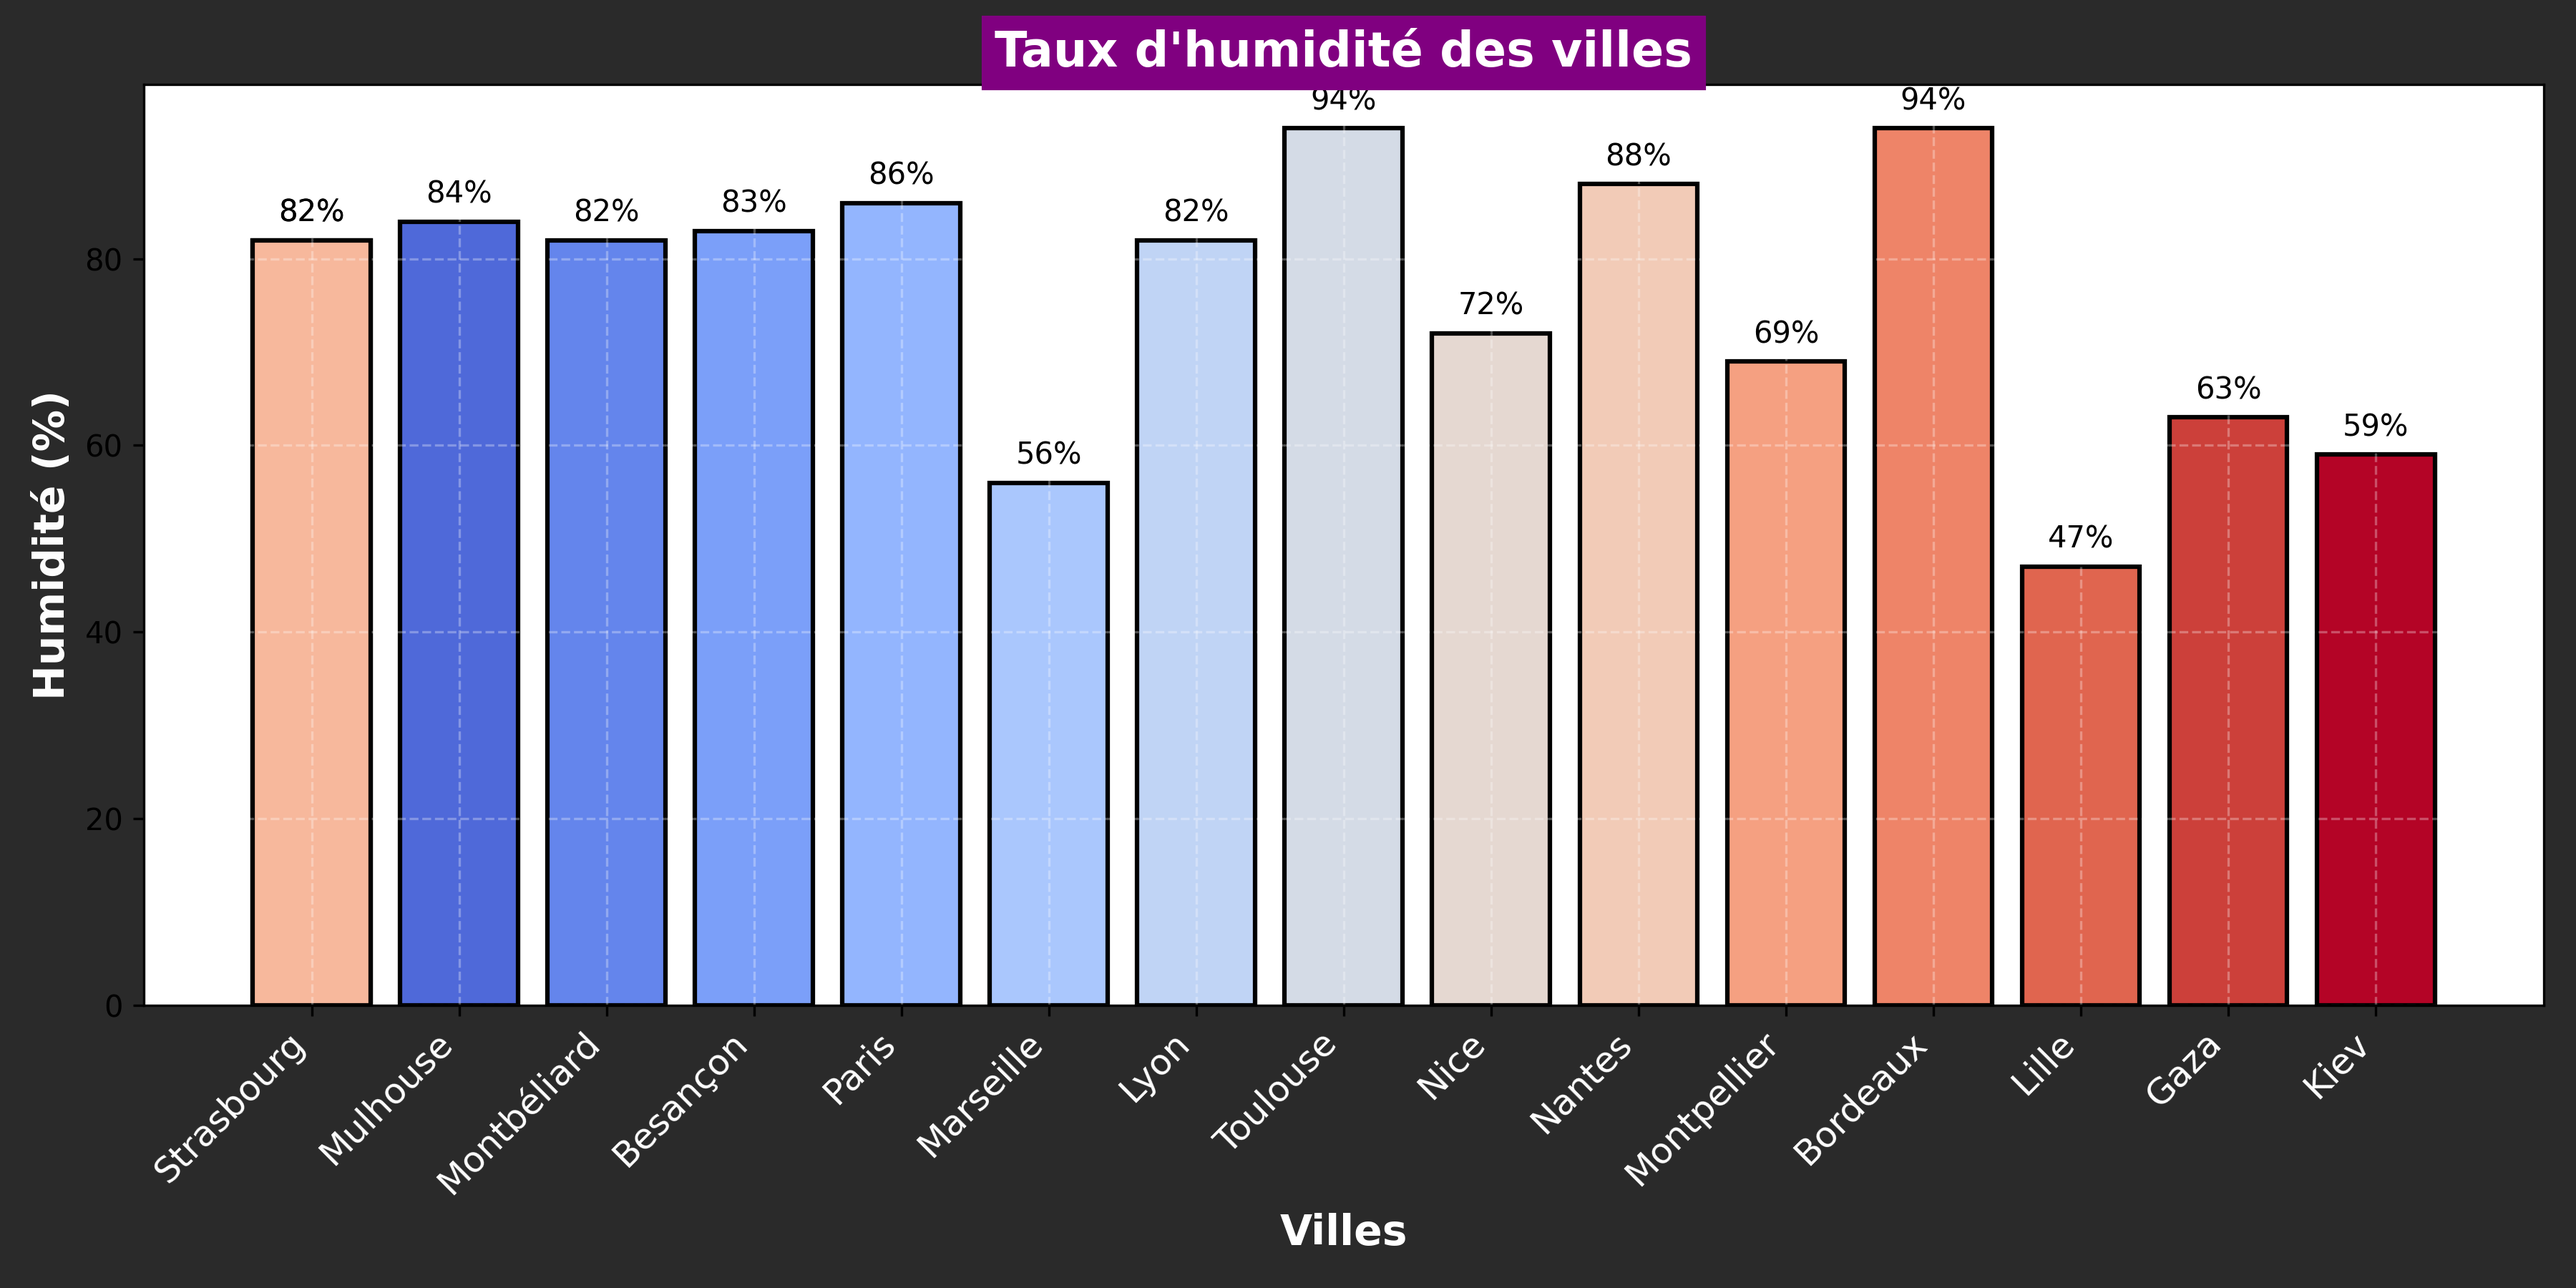
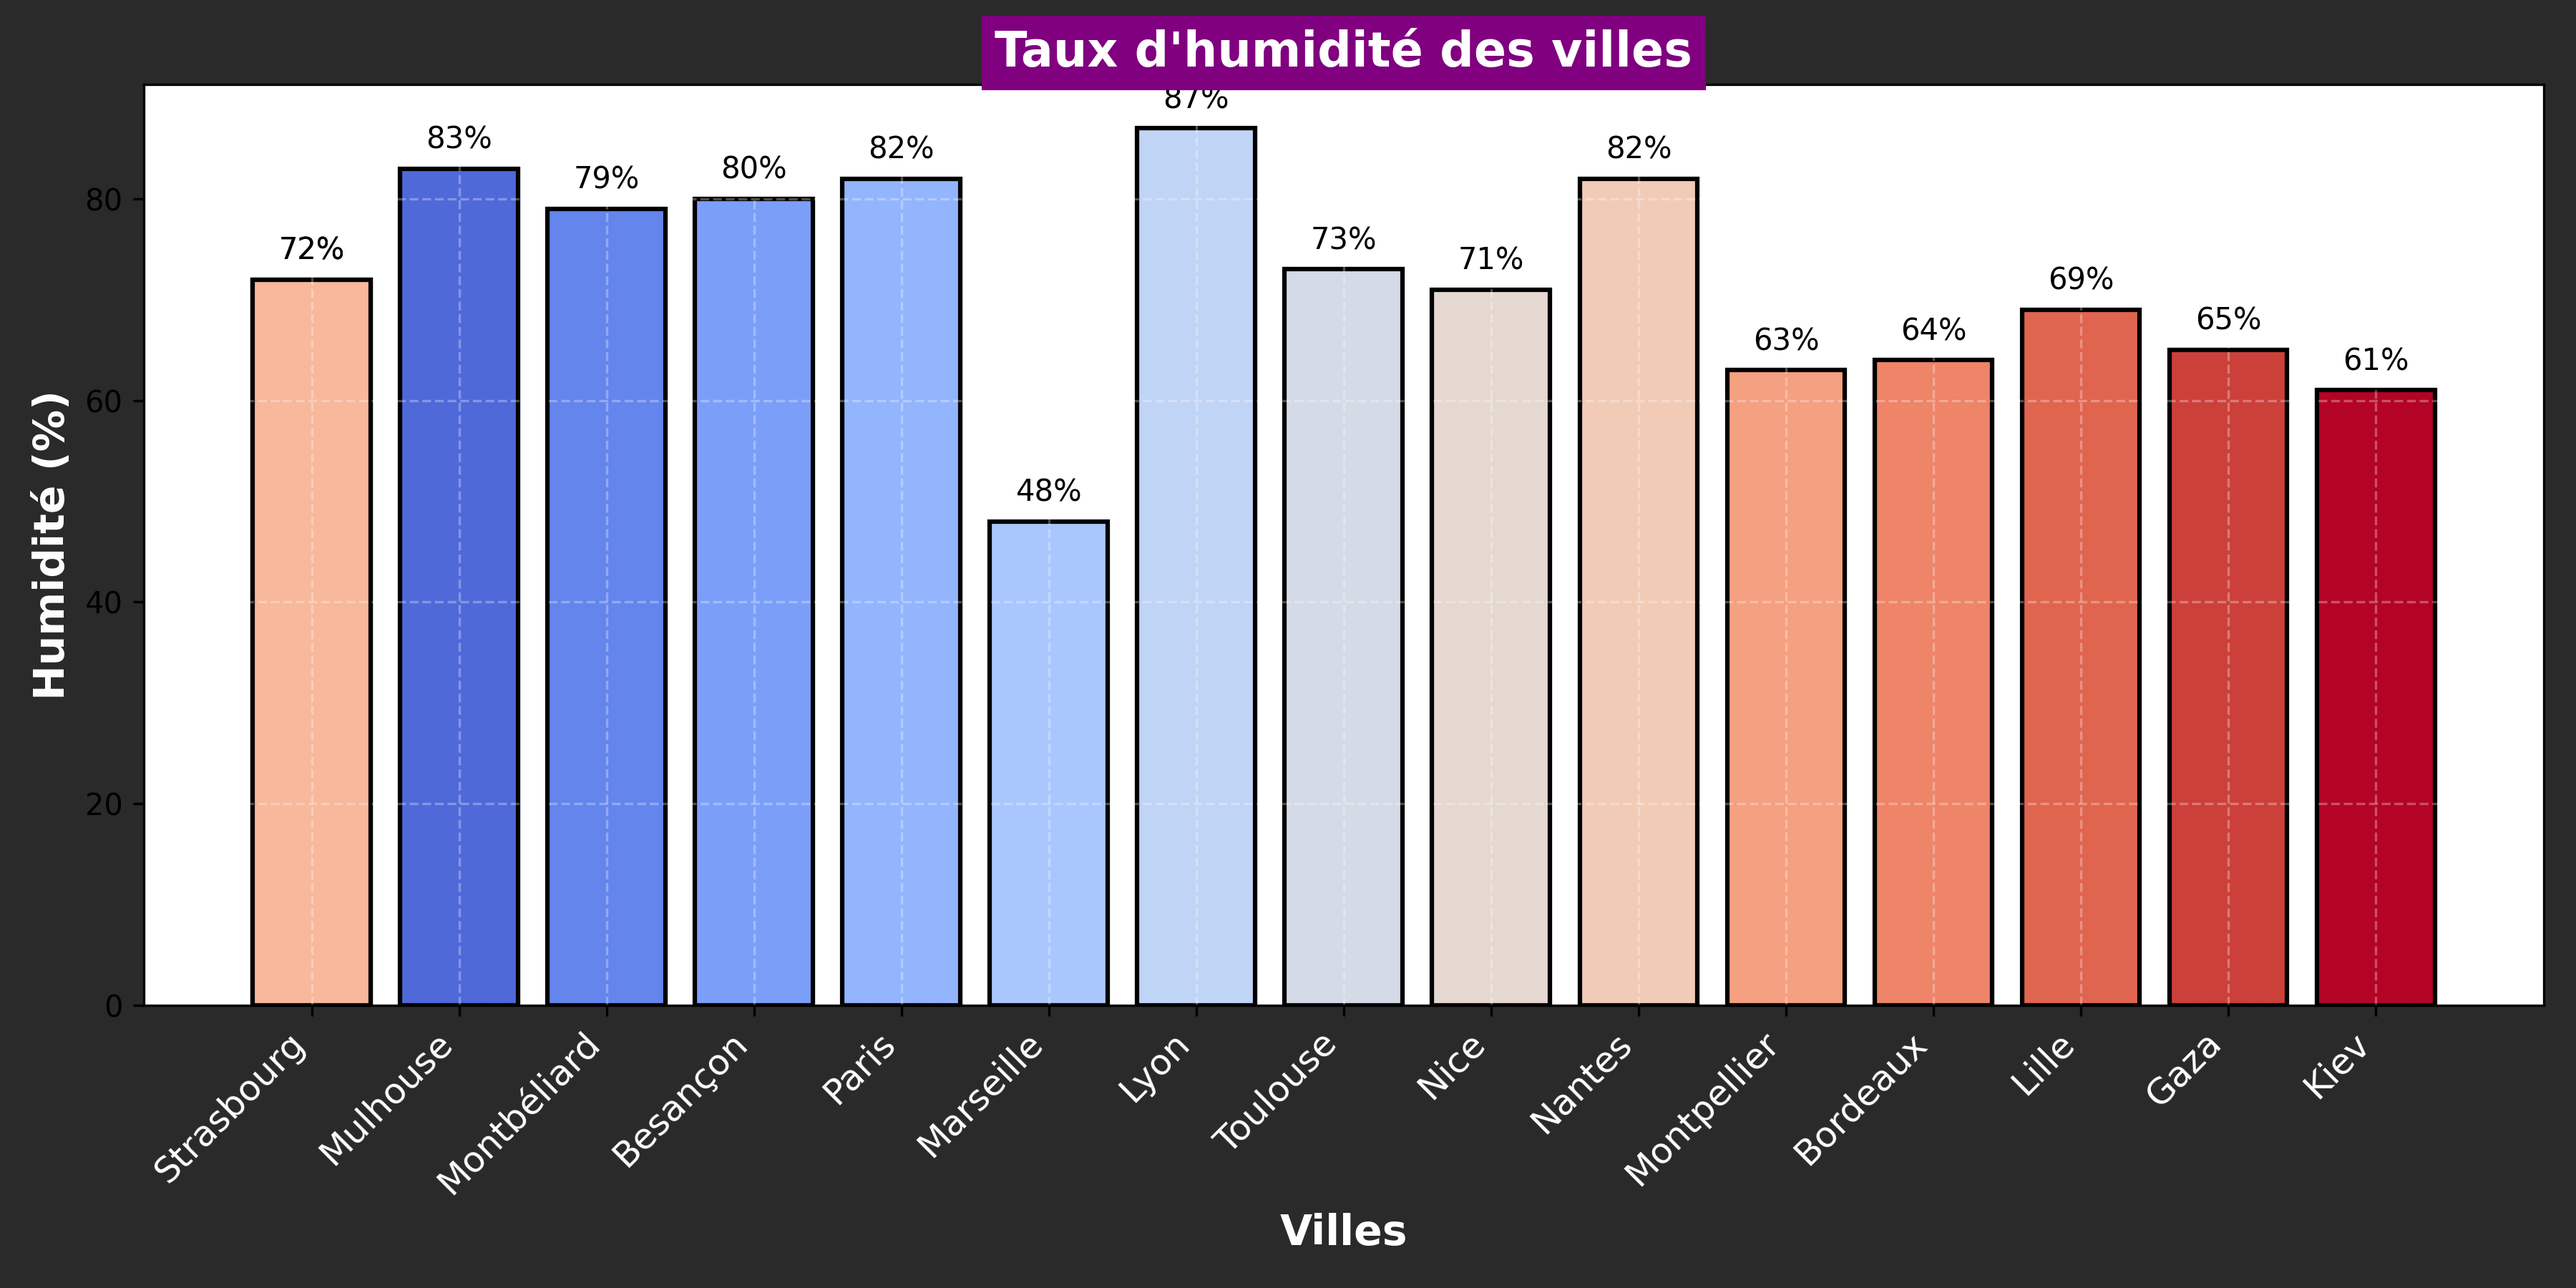
Mise à jour de la météo et ajout du graphique d'humidité

diff --git a/README.md b/README.md
@@ -24,103 +24,103 @@ Ce repo contient plusieurs workflows GitHub Actions :
 ## Météo actuelle :
 ## Météo des grandes villes + Gaza et Kiev 🌍
 
-🕒 Mise à jour : 10/06/2025 08:18:18
+🕒 Mise à jour : 11/06/2025 08:18:33
 
 ### 🌍 Strasbourg ☀
 **Conditions :** ciel dégagé
-**Température :** 14°C
-**Humidité :** 82%
-**Vent :** 2.06 m/s
+**Température :** 17.94°C
+**Humidité :** 72%
+**Vent :** 4.12 m/s
 
 ### 🌍 Mulhouse ☀
 **Conditions :** ciel dégagé
-**Température :** 13.08°C
-**Humidité :** 84%
-**Vent :** 2.06 m/s
-
-### 🌍 Montbéliard ☀
-**Conditions :** ciel dégagé
-**Température :** 15.54°C
-**Humidité :** 82%
-**Vent :** 0.95 m/s
-
-### 🌍 Besançon ☀
-**Conditions :** ciel dégagé
-**Température :** 13.83°C
+**Température :** 15.62°C
 **Humidité :** 83%
-**Vent :** 0.81 m/s
+**Vent :** 1.03 m/s
 
-### 🌍 Paris ☀
-**Conditions :** ciel dégagé
-**Température :** 14.57°C
-**Humidité :** 86%
-**Vent :** 2.06 m/s
+### 🌍 Montbéliard 🌥
+**Conditions :** nuageux
+**Température :** 18.32°C
+**Humidité :** 79%
+**Vent :** 3.75 m/s
+
+### 🌍 Besançon 🌥
+**Conditions :** nuageux
+**Température :** 16.89°C
+**Humidité :** 80%
+**Vent :** 2.1 m/s
+
+### 🌍 Paris 🌥
+**Conditions :** peu nuageux
+**Température :** 16.76°C
+**Humidité :** 82%
+**Vent :** 3.6 m/s
 
 ### 🌍 Marseille ☀
 **Conditions :** ciel dégagé
-**Température :** 18.62°C
-**Humidité :** 56%
-**Vent :** 0.7 m/s
+**Température :** 20.84°C
+**Humidité :** 48%
+**Vent :** 1.54 m/s
 
-### 🌍 Lyon ☀
-**Conditions :** ciel dégagé
-**Température :** 12.21°C
-**Humidité :** 82%
-**Vent :** 0.3 m/s
+### 🌍 Lyon 🌥
+**Conditions :** nuageux
+**Température :** 14.79°C
+**Humidité :** 87%
+**Vent :** 0.57 m/s
 
 ### 🌍 Toulouse 🌥
 **Conditions :** peu nuageux
-**Température :** 14.99°C
-**Humidité :** 94%
+**Température :** 21.99°C
+**Humidité :** 73%
 **Vent :** 1.54 m/s
 
 ### 🌍 Nice 🌥
-**Conditions :** peu nuageux
-**Température :** 18.05°C
-**Humidité :** 72%
-**Vent :** 0.14 m/s
+**Conditions :** partiellement nuageux
+**Température :** 16.39°C
+**Humidité :** 71%
+**Vent :** 0.64 m/s
 
 ### 🌍 Nantes ☀
 **Conditions :** ciel dégagé
-**Température :** 12.96°C
-**Humidité :** 88%
-**Vent :** 1.03 m/s
+**Température :** 16.96°C
+**Humidité :** 82%
+**Vent :** 3.6 m/s
 
 ### 🌍 Strasbourg ☀
 **Conditions :** ciel dégagé
-**Température :** 14°C
-**Humidité :** 82%
-**Vent :** 2.06 m/s
+**Température :** 17.94°C
+**Humidité :** 72%
+**Vent :** 4.12 m/s
 
-### 🌍 Montpellier 🌥
-**Conditions :** peu nuageux
-**Température :** 18.61°C
-**Humidité :** 69%
-**Vent :** 2.57 m/s
+### 🌍 Montpellier ☀
+**Conditions :** ciel dégagé
+**Température :** 21.94°C
+**Humidité :** 63%
+**Vent :** 0.51 m/s
 
 ### 🌍 Bordeaux ☀
 **Conditions :** ciel dégagé
-**Température :** 16.15°C
-**Humidité :** 94%
-**Vent :** 2.06 m/s
+**Température :** 21.15°C
+**Humidité :** 64%
+**Vent :** 1.54 m/s
 
 ### 🌍 Lille ☀
 **Conditions :** ciel dégagé
-**Température :** 14.06°C
-**Humidité :** 47%
-**Vent :** 5.14 m/s
+**Température :** 14.48°C
+**Humidité :** 69%
+**Vent :** 1.03 m/s
 
 ### 🌍 Gaza ☀
 **Conditions :** ciel dégagé
-**Température :** 28.07°C
-**Humidité :** 63%
-**Vent :** 2.26 m/s
+**Température :** 27.74°C
+**Humidité :** 65%
+**Vent :** 2.93 m/s
 
-### 🌍 Kiev ☀
-**Conditions :** ciel dégagé
-**Température :** 17.02°C
-**Humidité :** 59%
-**Vent :** 3.93 m/s
+### 🌍 Kiev 🌥
+**Conditions :** couvert
+**Température :** 19.18°C
+**Humidité :** 61%
+**Vent :** 3.19 m/s
 
 <p align='center'><img src='https://raw.githubusercontent.com/khoa083/khoa/main/Khoa_ne/img/Rainbow.gif' width='100%' style='border-radius: 5px; border: 3px solid #39FF14; box-shadow: 0 0 10px #39FF14, 0 0 20px #39FF14;' /></p>
 
